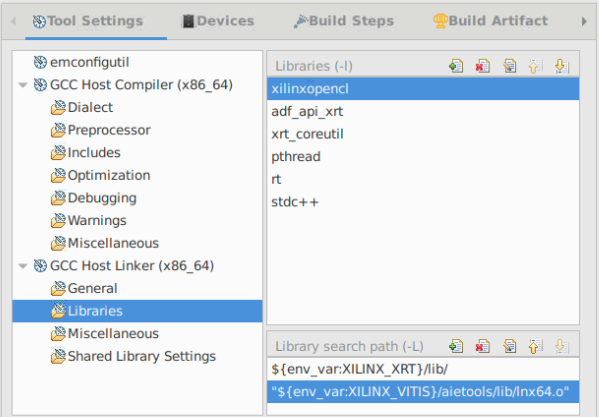
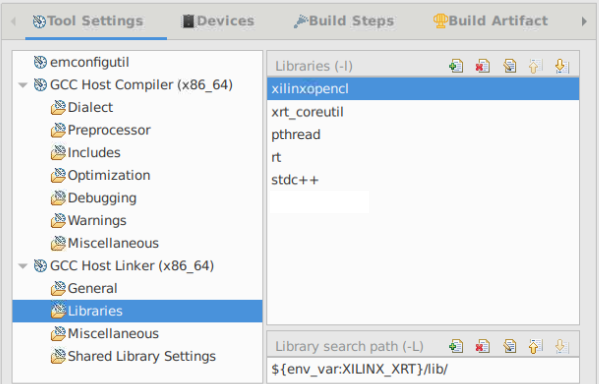
Remove unnecessary linking in compilation (#26)
* Remove unnecesary libraries

* Revert to original

* Fix symbolic link

* Fix softlink

* Fix type check to avoid warning

* Fix symbolic link for PL kernels

* File fixes

Changed region(s): [[0.0, 0.0312, 0.9917, 1.0]]

diff --git a/pbl/aie_multi_kernel/fir_interconnect/fir_cascade/prj/host/host.cpp b/pbl/aie_multi_kernel/fir_interconnect/fir_cascade/prj/host/host.cpp
@@ -106,7 +106,7 @@ int main(int argc, char** argv) {
         std::cerr << "Failed to open output file." << std::endl;
         // Handle the error
     } else {
-        for (int i = 0; i < num_elements; ++i) {
+        for (unsigned int i = 0; i < num_elements; ++i) {
             outputFile << DataOutput[i] << "\n";
         }
         outputFile.close();

diff --git a/pbl/aie_multi_kernel/fir_interconnect/fir_m2m/prj/host/host.cpp b/pbl/aie_multi_kernel/fir_interconnect/fir_m2m/prj/host/host.cpp
@@ -106,7 +106,7 @@ int main(int argc, char** argv) {
         std::cerr << "Failed to open output file." << std::endl;
         // Handle the error
     } else {
-        for (int i = 0; i < num_elements; ++i) {
+        for (unsigned int i = 0; i < num_elements; ++i) {
             outputFile << DataOutput[i] << "\n";
         }
         outputFile.close();

diff --git a/pbl/aie_multi_kernel/fir_interconnect/fir_stream_memory/prj/host/host.cpp b/pbl/aie_multi_kernel/fir_interconnect/fir_stream_memory/prj/host/host.cpp
@@ -106,7 +106,7 @@ int main(int argc, char** argv) {
         std::cerr << "Failed to open output file." << std::endl;
         // Handle the error
     } else {
-        for (int i = 0; i < num_elements; ++i) {
+        for (unsigned int i = 0; i < num_elements; ++i) {
             outputFile << DataOutput[i] << "\n";
         }
         outputFile.close();
